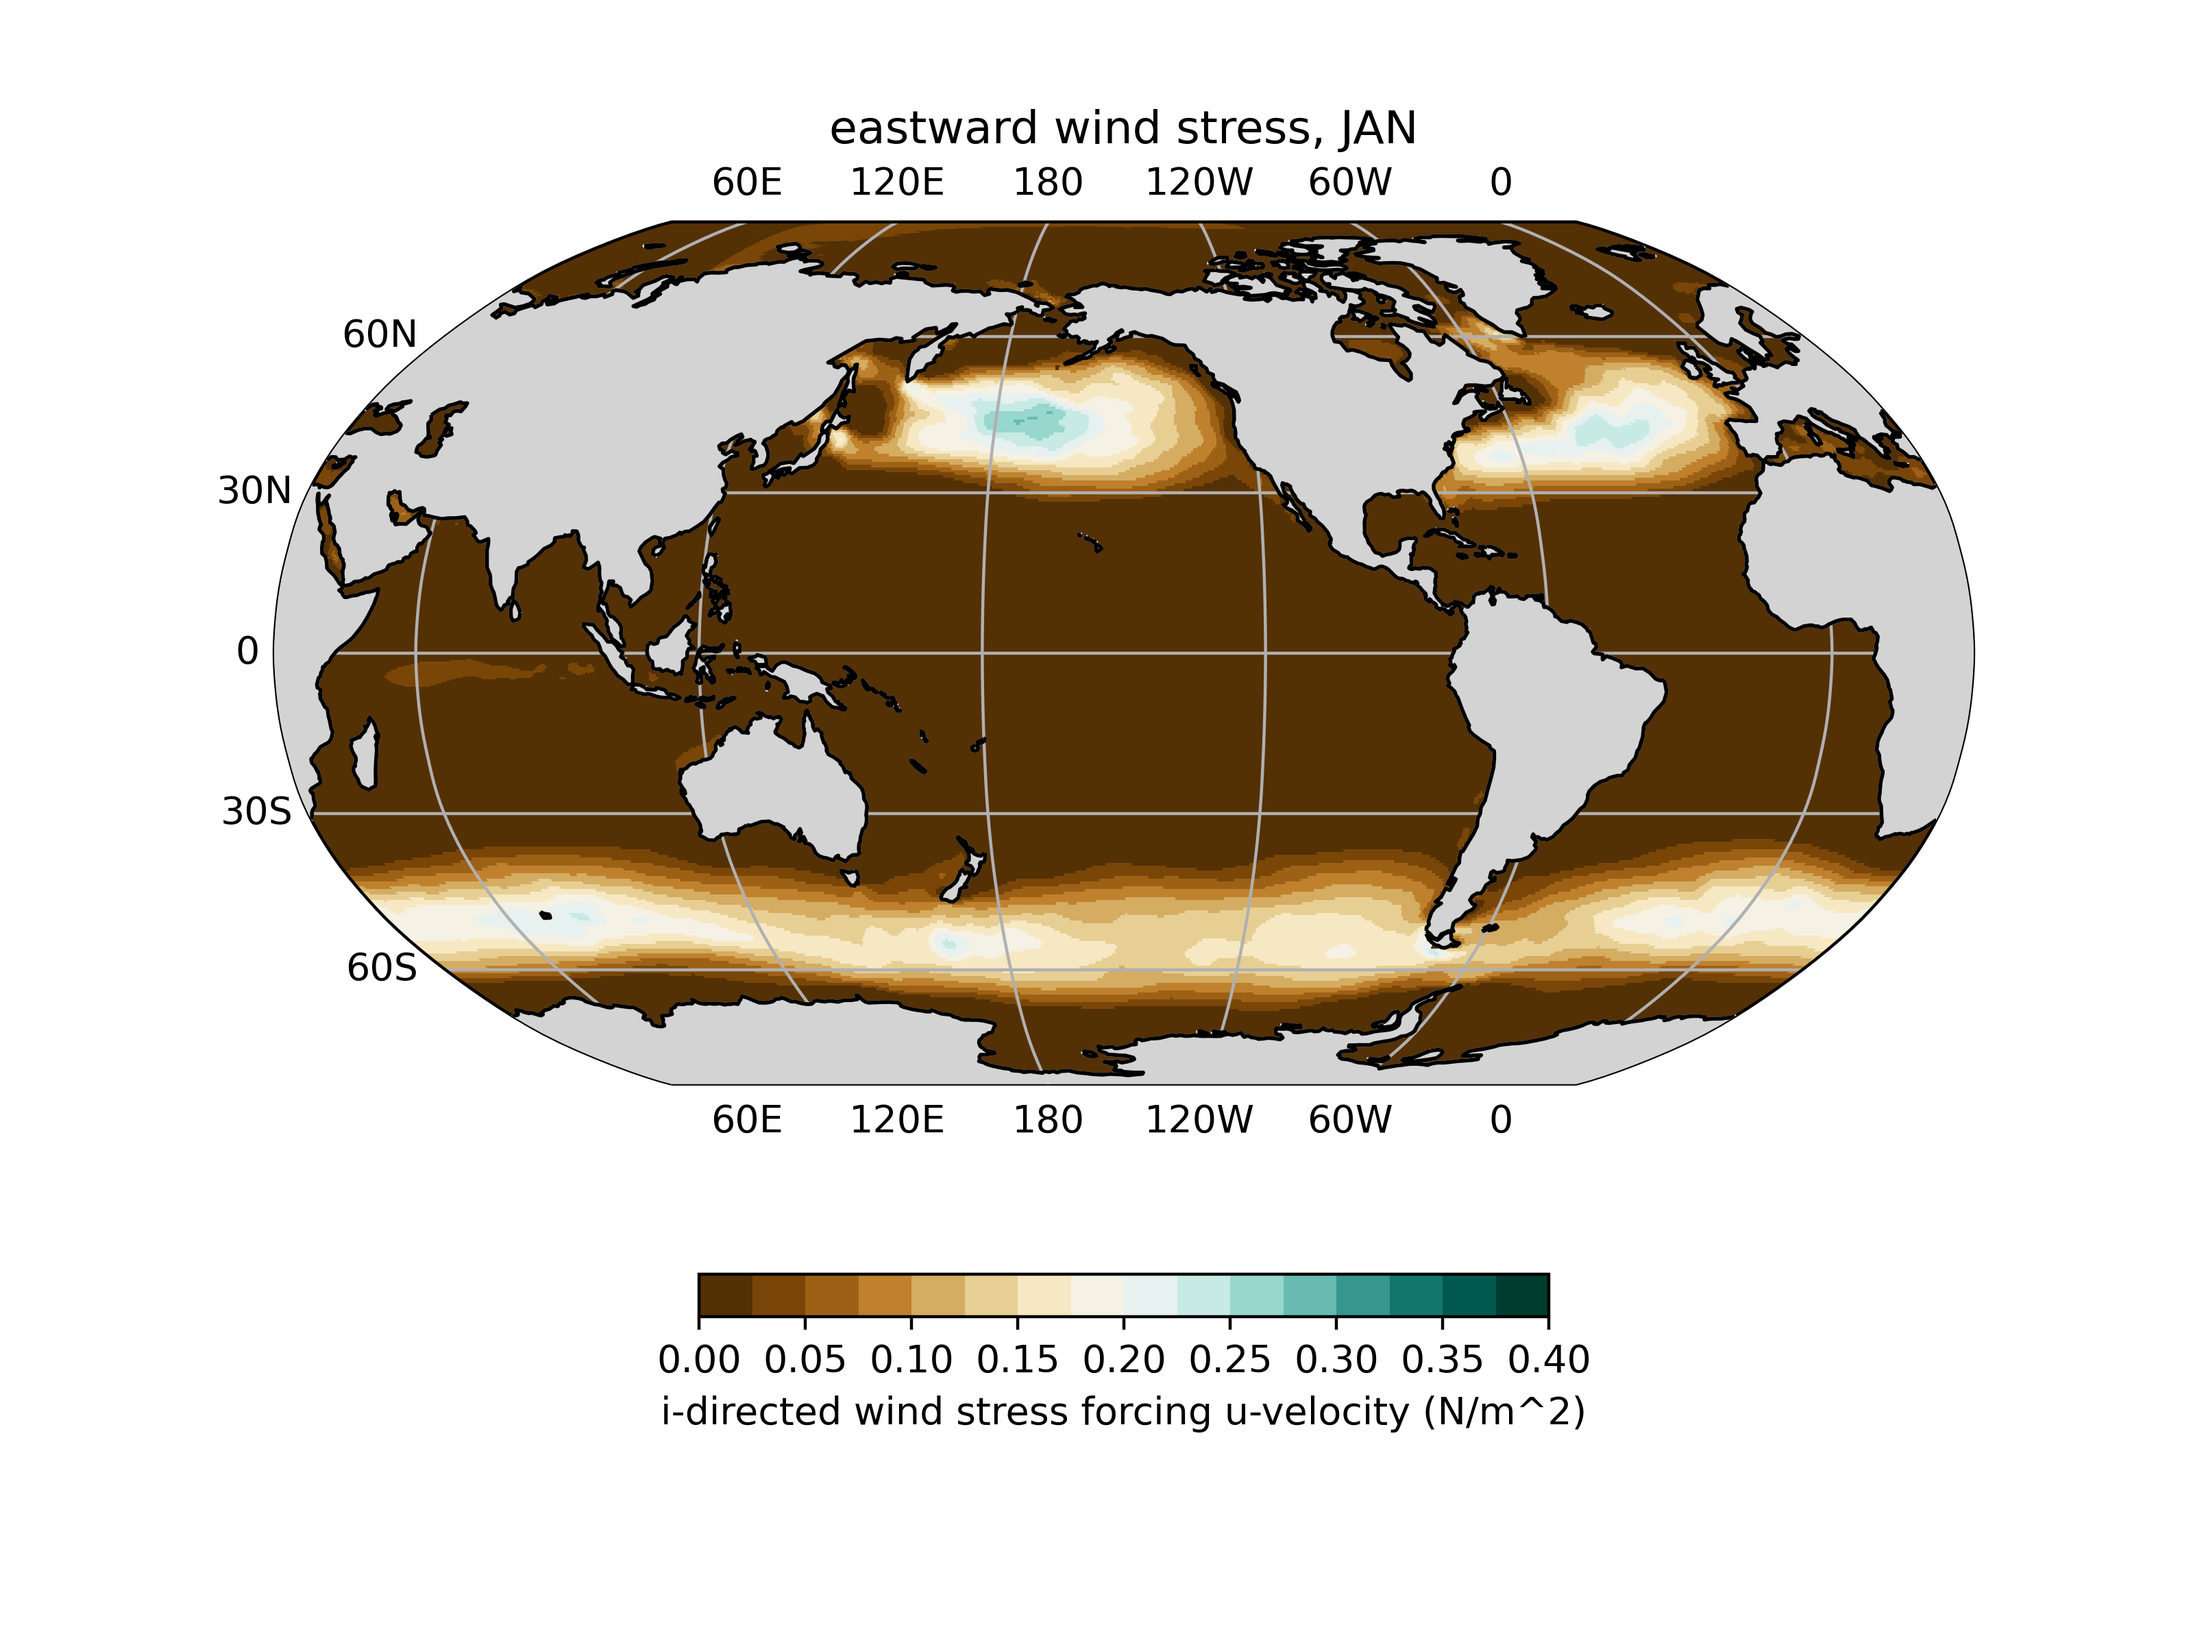
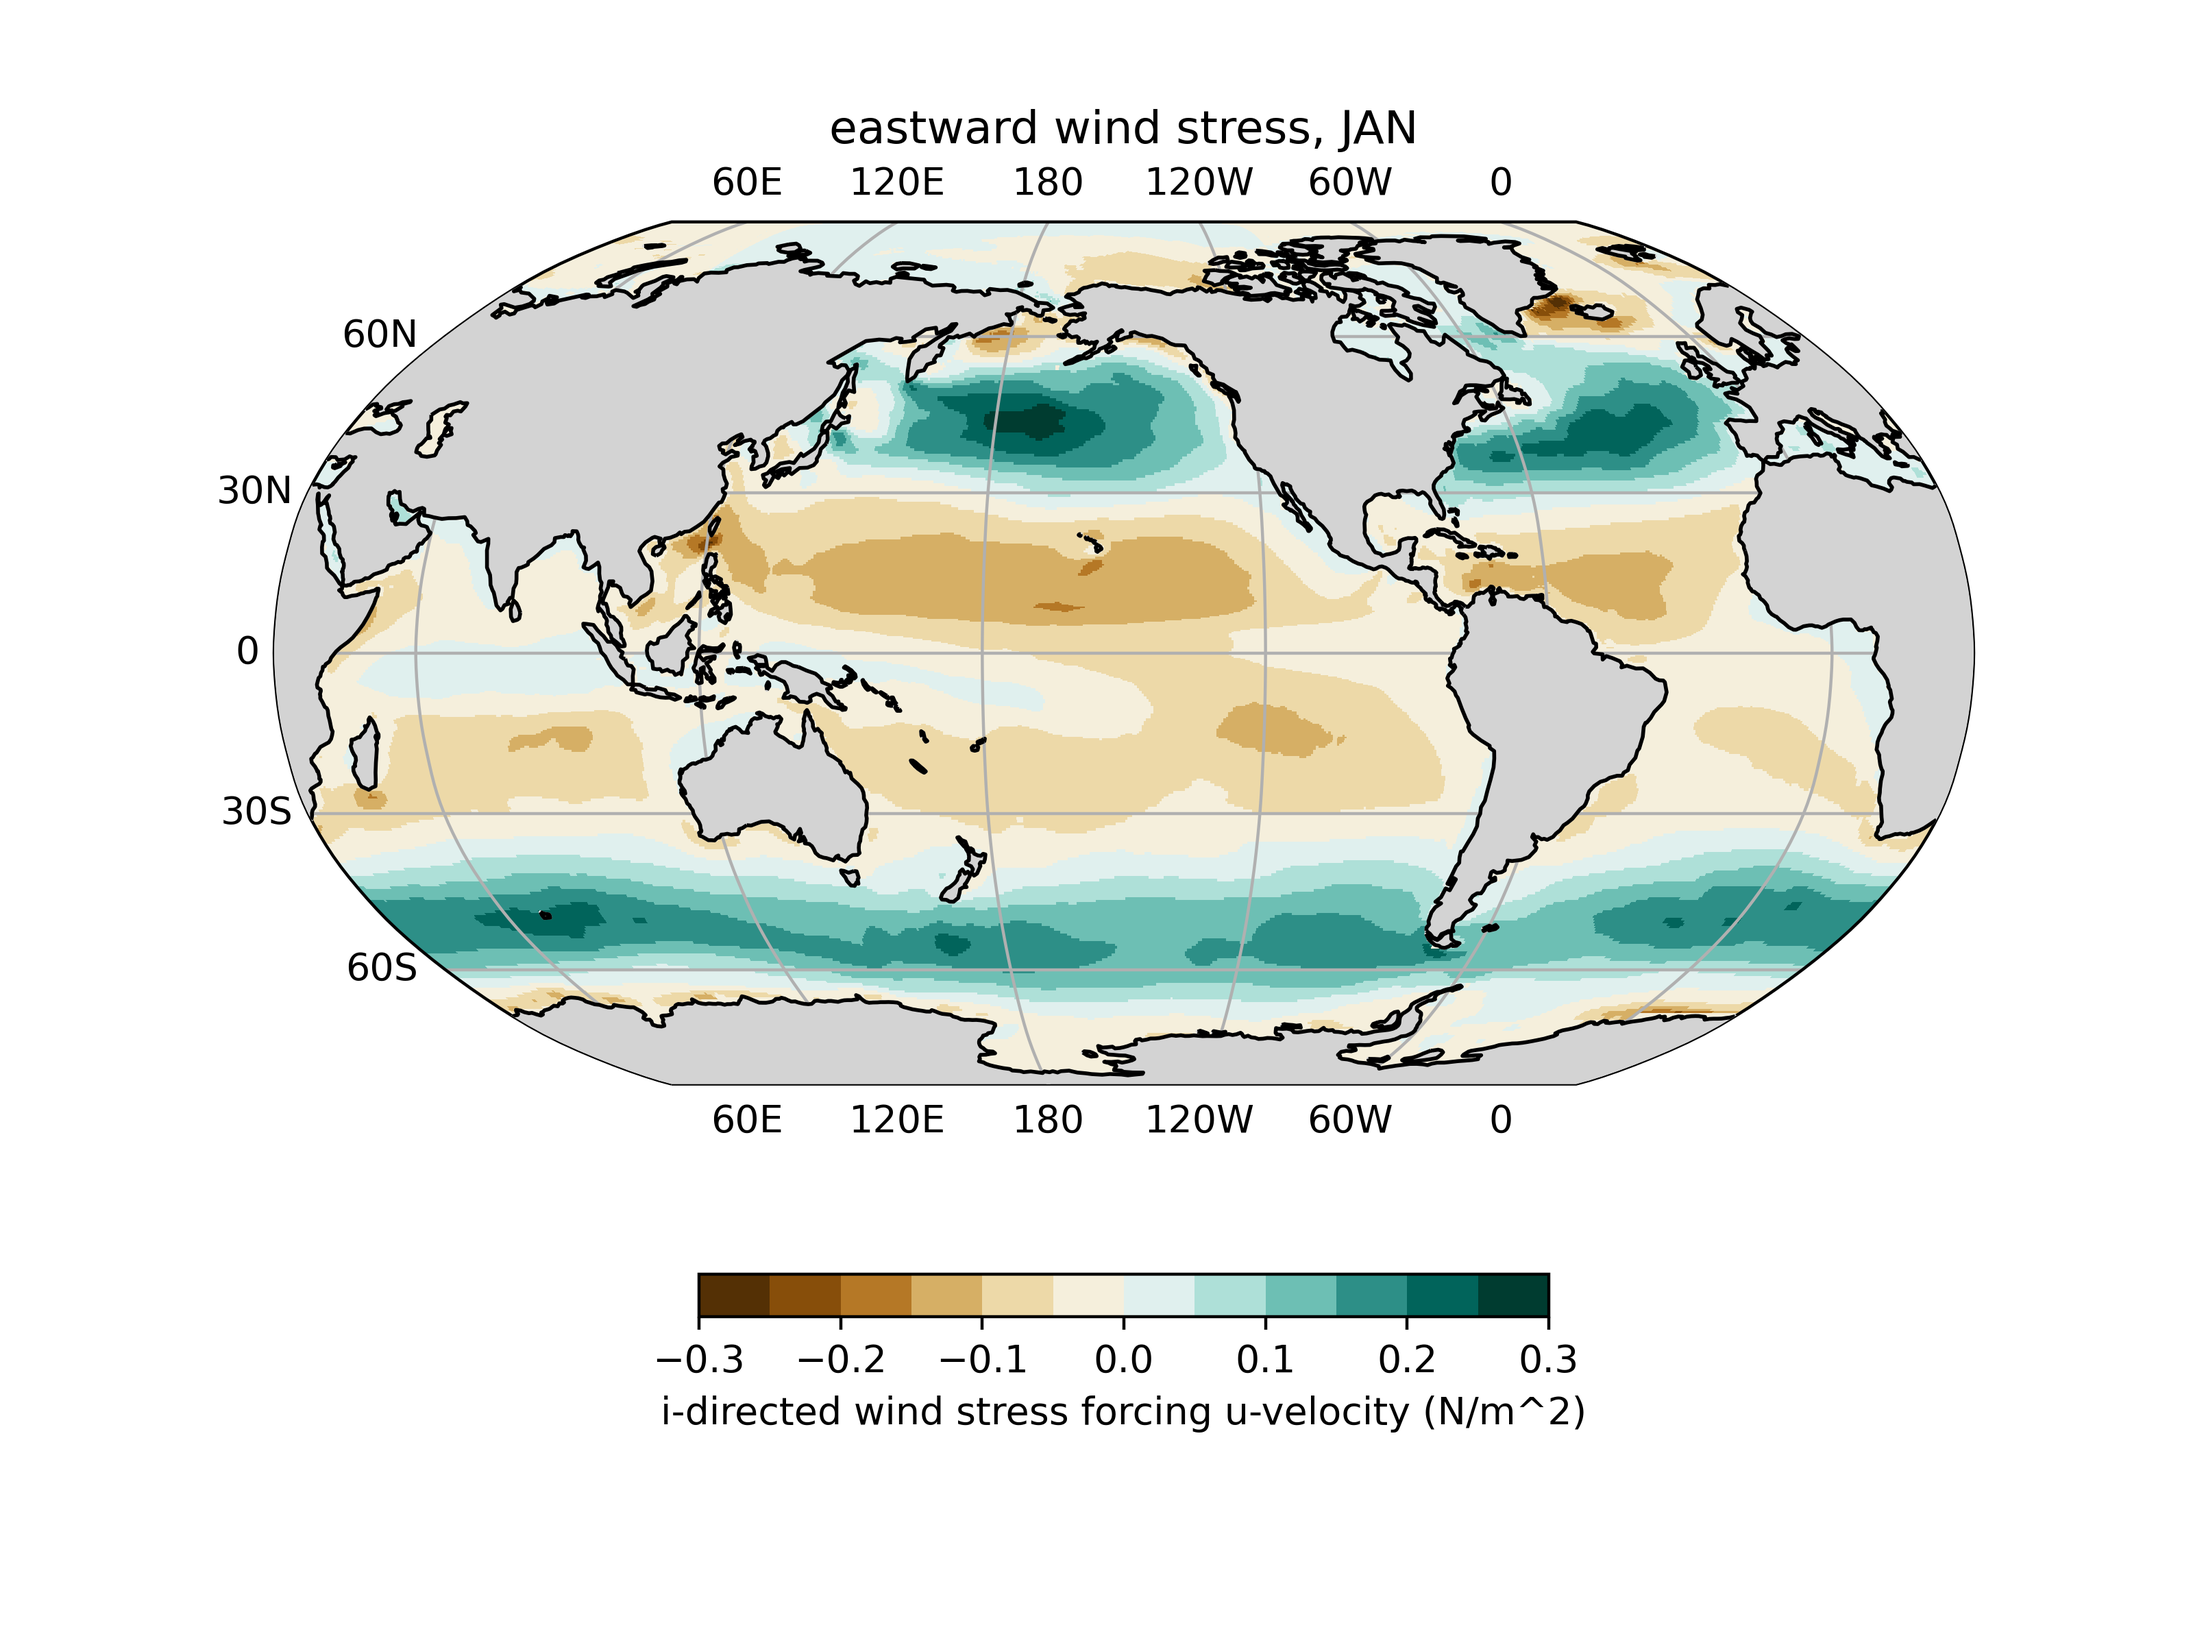
Improves colorscales in current check maps.

diff --git a/diurnal_cycle/analysis/current_check_maps.py b/diurnal_cycle/analysis/current_check_maps.py
@@ -135,9 +135,9 @@ def plot_dets(vn, att):
 	    'latname':'geolat_c',
 	    'lonname':'geolon_c',
 	    'plotname':'eastward wind stress',
-	    'min':0.0,
-	    'max':0.4,
-	    'step':0.025,
+	    'min':-0.3,
+	    'max':0.3,
+	    'step':0.05,
 	    'units':'N m-2',
 	    'cmap':'BrBg'
 	},
@@ -145,8 +145,8 @@ def plot_dets(vn, att):
 	    'latname':'geolat_c',
 	    'lonname':'geolon_c',
 	    'plotname':'northward wind stress',
-	    'min':0.0,
-	    'max':0.4,
+	    'min':-0.2,
+	    'max':0.2,
 	    'step':0.025,
 	    'units':'N m-2',
 	    'cmap':'BrBg'
@@ -165,9 +165,9 @@ def plot_dets(vn, att):
 	    'latname':'geolat_c',
 	    'lonname':'geolon_c',
 	    'plotname':'northward wind',
-	    'min':-100.0,
-	    'max':100.0,
-	    'step':20.0,
+	    'min':-30.0,
+	    'max':30.0,
+	    'step':5.0,
 	    'units':'cm s-1',
 	    'cmap':'BrBg'
 	}
